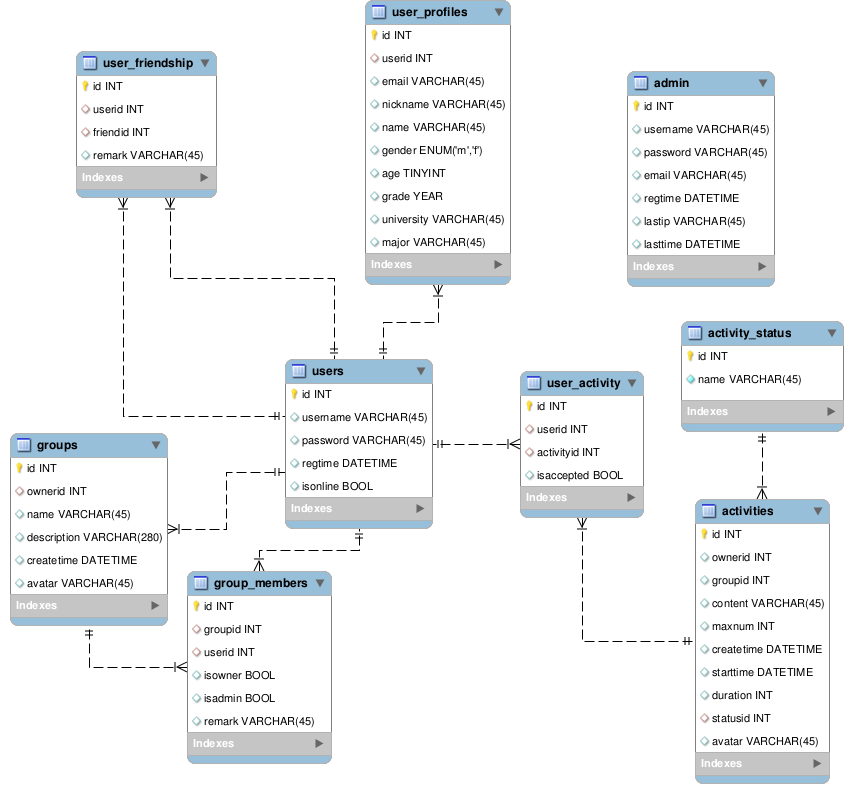
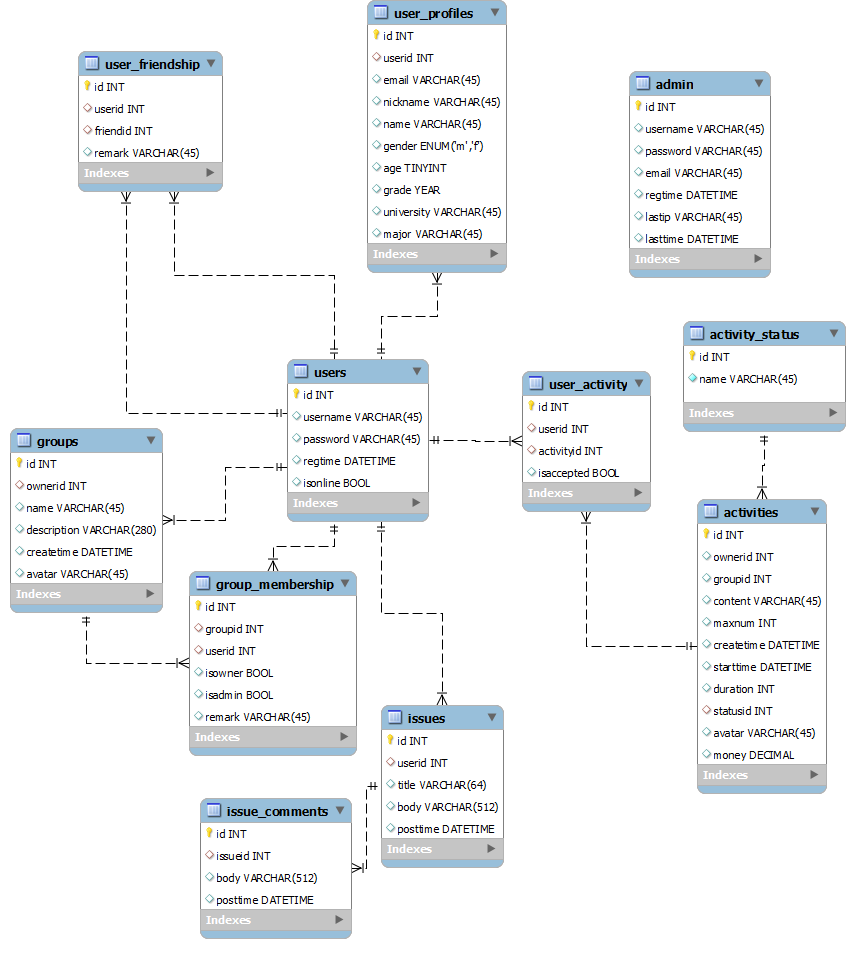
every thing up to date!

Changed region(s): [[0.0, 0.0, 0.6096, 0.9963], [0.5791, 0.0623, 1.0, 0.9963], [0.0914, 0.0311, 0.2743, 0.2802]]

diff --git a/models/user.js b/models/user.js
@@ -125,9 +125,12 @@ User = module.exports = syBookshelf.Model.extend({
 		var file = User.getAvatarPath(this.id),
 			self = this;
 		return new Promise(function (resolve, reject) {
-			fs.rename(tmp, file, function (err) {
-				if (err) return reject(errors[30001]);
-				resolve(self);
+			fs.readFile(tmp, function (err, data) {
+				if (err) return reject(errors[30000]);
+				fs.writeFile(file, data, function(err){
+					if (err) return reject(errors[30001]);
+					resolve(self);
+				});
 			});
 		});
 	},

diff --git a/models/activity.js b/models/activity.js
@@ -10,7 +10,7 @@ var _ = require('underscore'),
 	UserActivitys = UserActivity.Set,
 	GroupMembers = require('./group-membership'),
 	GroupMembersSet = GroupMembers.Set,
-	Group = require('./groups'),
+	Group = require('./group'),
 	fkActivity = 'activityid',
 	fkStatus = 'statusid',
 	Activity, Activities,

diff --git a/models/group-membership.js b/models/group-membership.js
@@ -6,7 +6,7 @@ var chance = new (require('chance'))(),
 	GroupMembership, GroupMembersSet;
 
 GroupMembership = module.exports = syBookshelf.Model.extend({
-	tableName: 'group_members',
+	tableName: 'group_membership',
 	fields: [
 		'id', 'groupid', 'userid', 'isowner', 'isadmin', 'remark'
 	],

diff --git a/test/units/users.js b/test/units/users.js
@@ -109,6 +109,8 @@ describe('users', function () {
 		req = request.post(apiHost + '/avatar/update', {
 			jar: jar
 		}, function (err, res, data) {
+			console.log(data, err);
+
 			assert.ok(data['msg']);
 			done();
 		});
